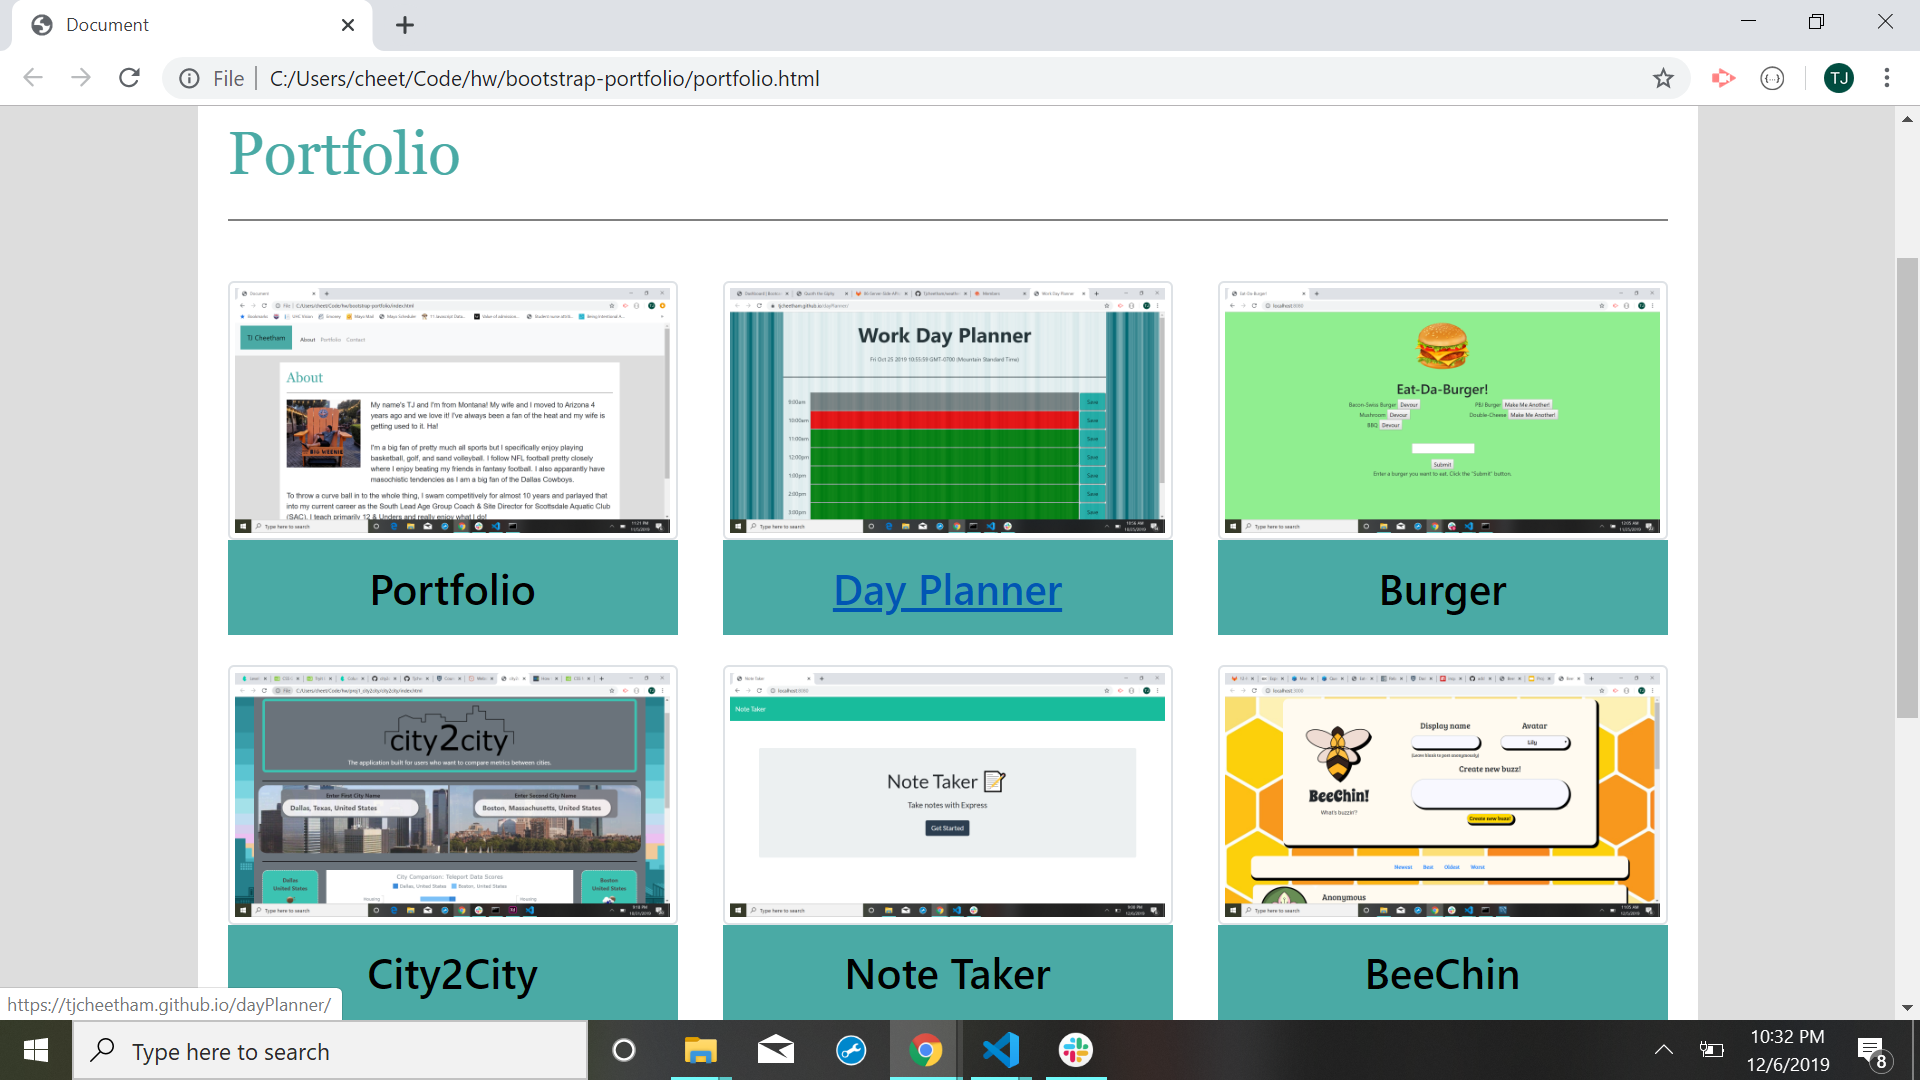
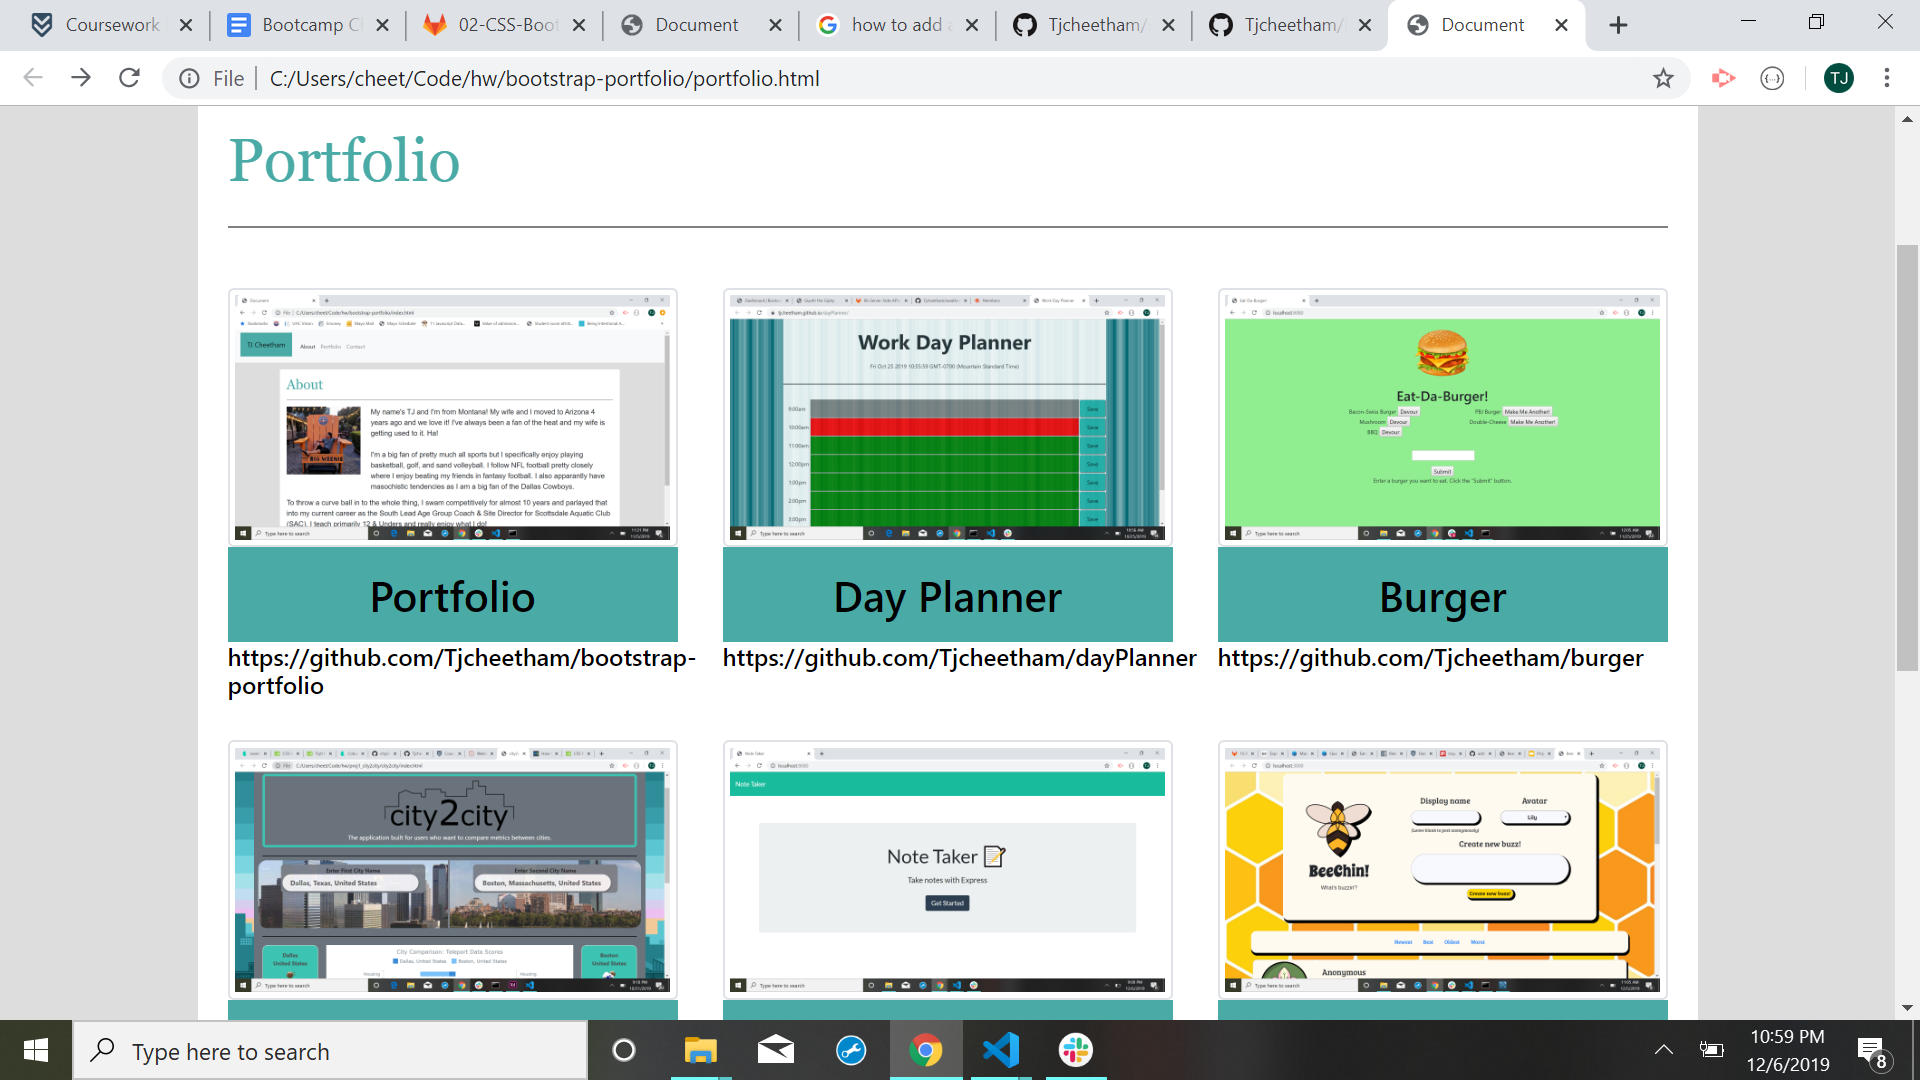
updated porfolio with GitHub links

diff --git a/portfolio.html b/portfolio.html
@@ -44,17 +44,26 @@
                     <img class="img img-thumbnail" src="images\2019-11-05.png" alt="placeholder">
                     <h3 class="img-label">Portfolio</h3>
                 </a>
+                <a href="https://github.com/Tjcheetham/bootstrap-portfolio" class="href">
+                    <h6>https://github.com/Tjcheetham/bootstrap-portfolio</h6>
+                </a>
             </div>
             <div class="col-md-4 click">
                 <a href="https://tjcheetham.github.io/dayPlanner/">
                     <img class="img img-thumbnail" src="images\2019-10-25.png" alt="placeholder">
                     <h3 class="img-label">Day Planner</h3>
                 </a>
+                <a href="https://github.com/Tjcheetham/dayPlanner" class="href">
+                    <h6>https://github.com/Tjcheetham/dayPlanner</h6>
+                </a>
             </div>
             <div class="col-md-4 click">
                 <a href="https://github.com/Tjcheetham/burger">
                     <img class="img img-thumbnail" src="images\2019-11-25(1).png" alt="placeholder">
                     <h3 class="img-label">Burger</h3>
+                </a>
+                <a href="https://github.com/Tjcheetham/burger" class="href">
+                    <h6>https://github.com/Tjcheetham/burger</h6>
                 </a>
             </div>
         </div>
@@ -64,17 +73,26 @@
                     <img class="img img-thumbnail" src="images\2019-10-31.png" alt="placeholder">
                     <h3 class="img-label">City2City</h3>
                 </a>
+                <a href="https://github.com/Tjcheetham/city2city" class="href">
+                    <h6>https://github.com/Tjcheetham/city2city</h6>
+                </a>
             </div>
             <div class="col-md-4 click">
                 <a href="https://github.com/Tjcheetham/note-taker">
                     <img class="img img-thumbnail" src="images\2019-12-06(2).png" alt="placeholder">
                     <h3 class="img-label">Note Taker</h3>
                 </a>
+                <a href="https://github.com/Tjcheetham/note-taker" class="href">
+                    <h6>https://github.com/Tjcheetham/note-taker</h6>
+                </a>
             </div>
             <div class="col-md-4 click">
-                <a href="https://github.com/verlitas/BeeChin">
+                <a href="https://secure-shore-00883.herokuapp.com/">
                     <img class="img img-thumbnail" src="images\Beechin.png" alt="placeholder">
                     <h3 class="img-label">BeeChin</h3>
+                </a>
+                <a href="https://github.com/verlitas/BeeChin" class="href">
+                    <h6>https://github.com/verlitas/BeeChin</h6>
                 </a>
             </div>
         </div>
